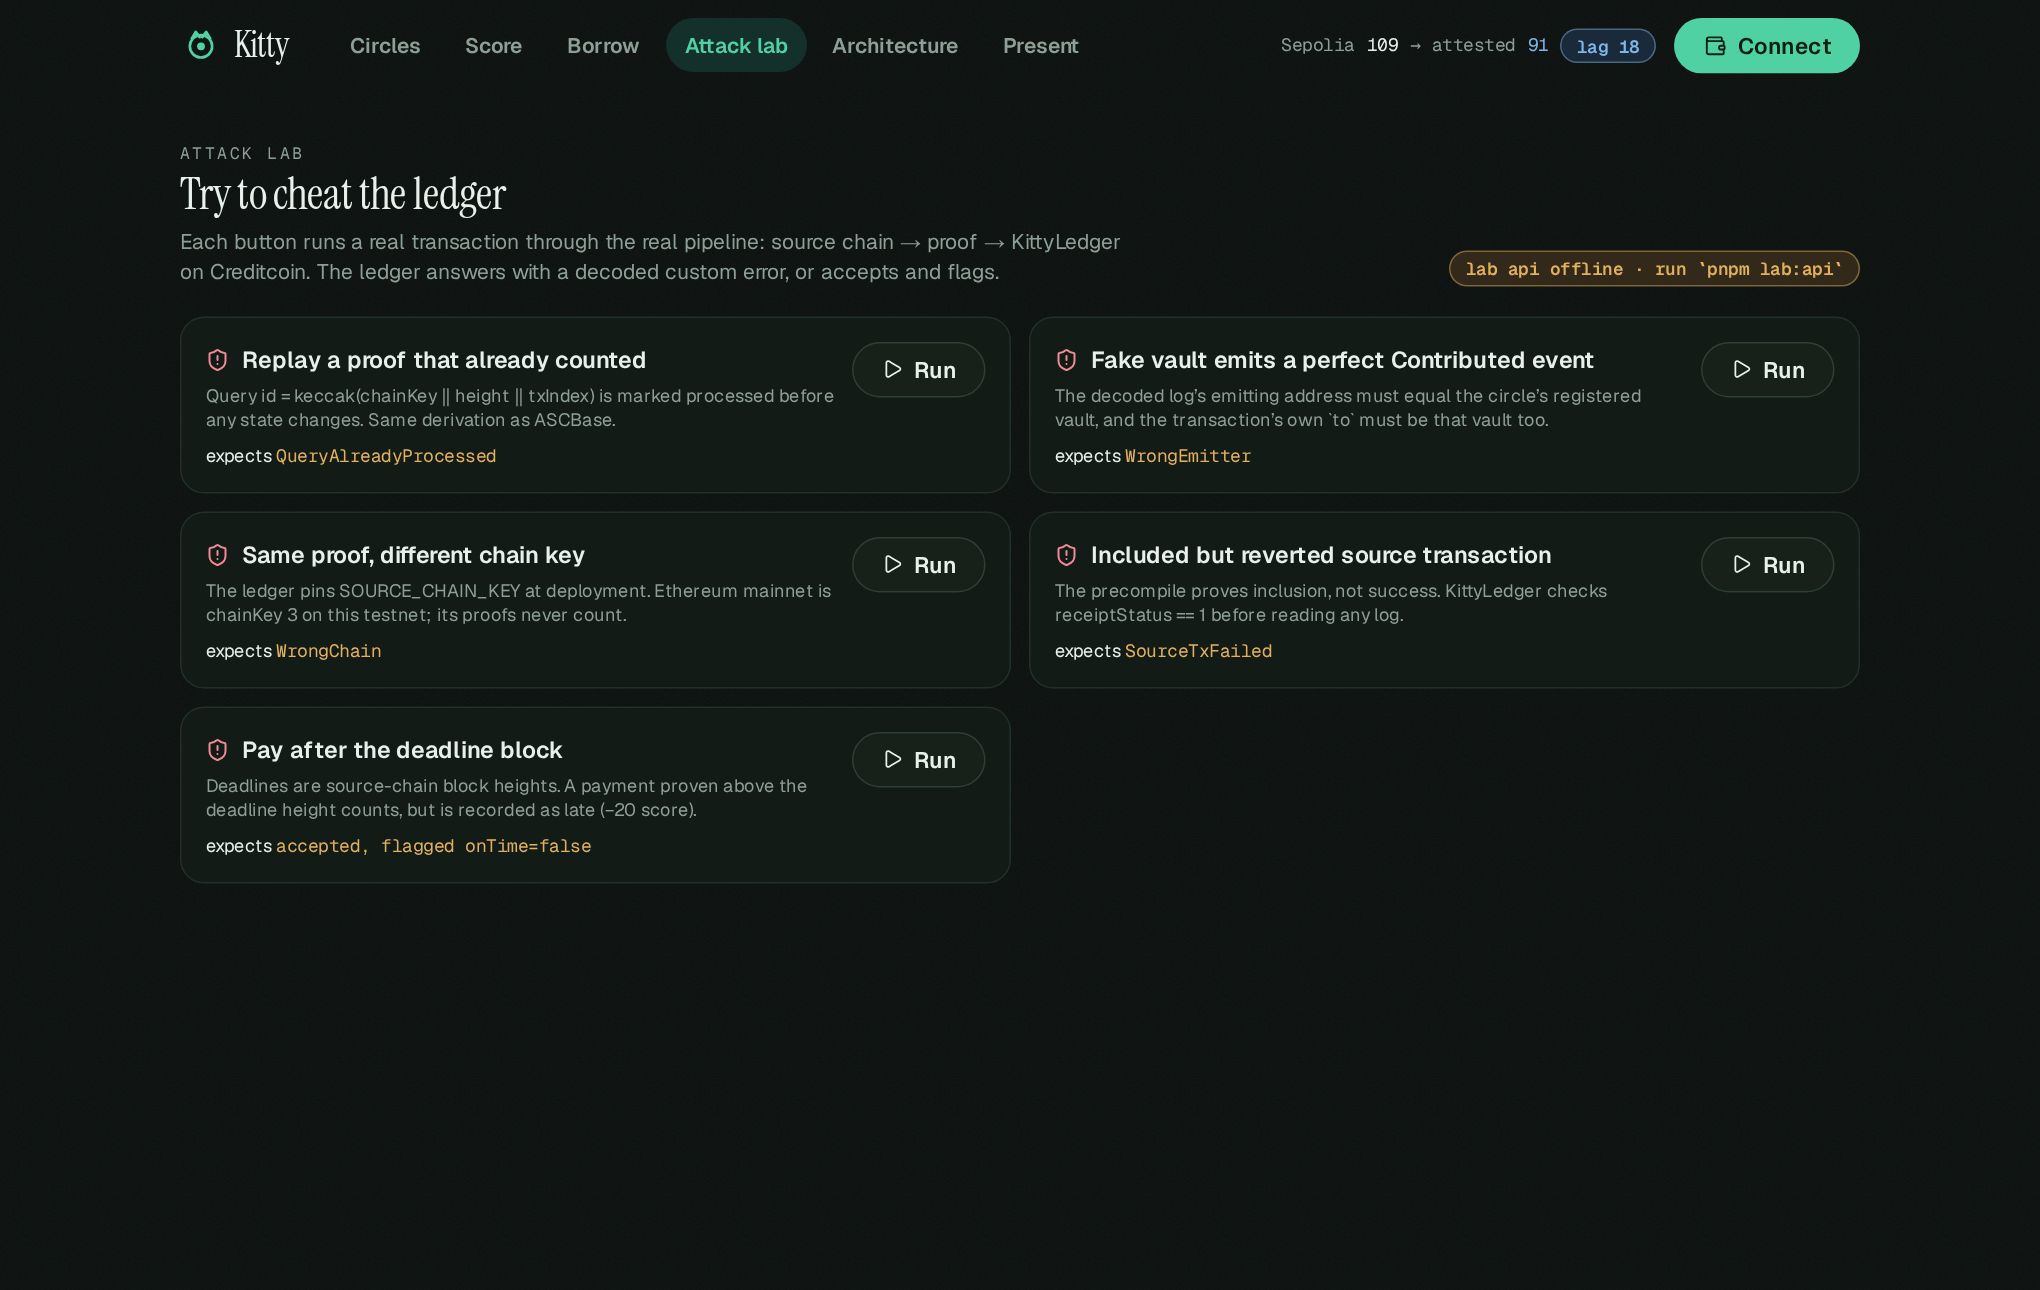
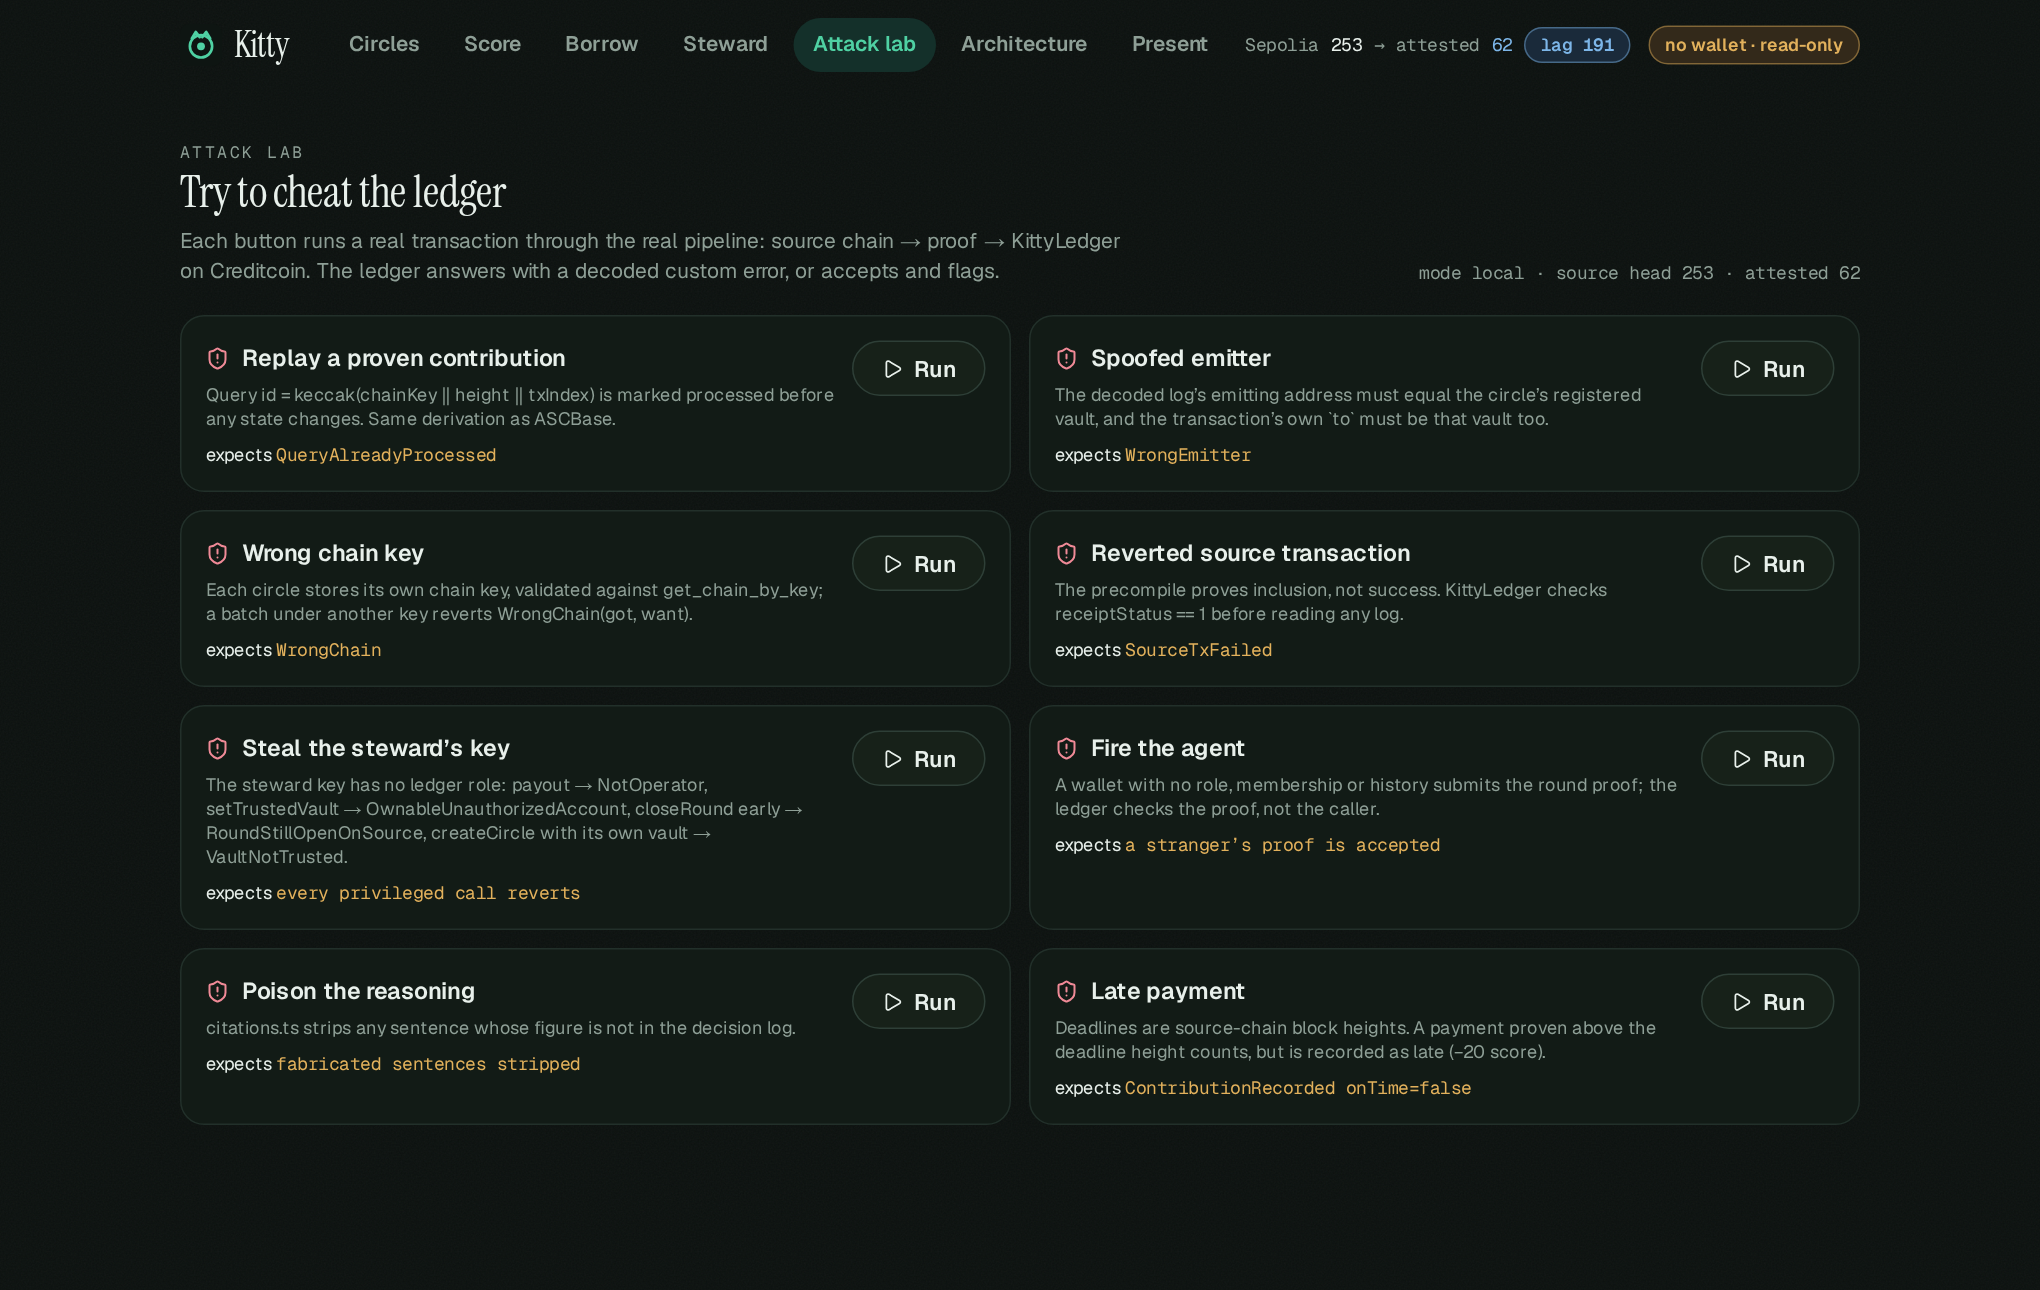
README: steward page screenshot, attack lab retaken with eight scenarios; nav indicator no longer wraps

diff --git a/web/src/components/Nav.tsx b/web/src/components/Nav.tsx
@@ -34,7 +34,7 @@ export function Nav() {
           </Link>
           <nav className="hidden items-center gap-1 md:flex md:ml-4">{links}</nav>
           <div className="ml-auto flex items-center gap-3">
-            <div className="hidden items-center gap-2 text-xs mono lg:flex" title="Latest Sepolia block vs the latest block attested on Creditcoin by the attestor network">
+            <div className="hidden shrink-0 items-center gap-2 whitespace-nowrap text-xs mono lg:flex" title="Latest Sepolia block vs the latest block attested on Creditcoin by the attestor network">
               <span style={{ color: 'var(--muted)' }}>Sepolia</span><span>{num(head)}</span>
               <span style={{ color: 'var(--muted)' }}>→ attested</span><span style={{ color: 'var(--sky)' }}>{num(attested)}</span>
               {lag !== undefined && <span className="pill sky">lag {lag}</span>}

diff --git a/README.md b/README.md
@@ -197,6 +197,12 @@ Two properties follow, and both are demonstrated in the attack lab rather than a
 - **The steward's Creditcoin key is worth nothing.** No role, no ownership, no allowance; everything it calls on the ledger is callable by anyone. On Sepolia this build runs the vault-operator key in the same process: that is the one privileged action in the system, it is bounded by `KittyVault` to addresses that have paid into the circle, and it is exactly the action Attestcoin writability removes.
 - **The model is optional.** With no API key the steward prints the deterministic sentence from layer 2 and behaves identically.
 
+The decision log and the citation validator are part of the product, not a debug file: `/steward` lists every decision with the chain state behind it and lets a reviewer question the agent.
+
+<p align="center">
+  <img src="docs/assets/steward.png" alt="The steward's decision log and the cited explanation" width="100%">
+</p>
+
 ```bash
 pnpm test:agent                       # policy + citation validator, no network
 pnpm explain "why did you wait?"      # cited explanation, or the deterministic fallback
